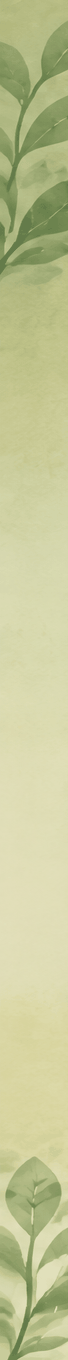
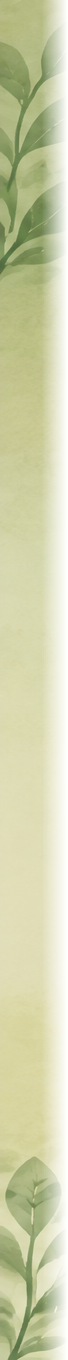
Corrige o retangulo visivel nas folhas, icone e altura do mapa
Relatado: "tem um quadrado que nao esta deixando as folhas aparecerem".

Causa provavel encontrada: as faixas de folhas e o icone eram OPACOS. A
faixa carrega o fundo exato do mockup, que nao e um gradiente linear —
meu LinearGradient de tres paradas diverge dele em algumas alturas, e a
borda da faixa vira um retangulo visivel contra o gradiente.

A correcao nao e acertar o gradiente, e sim tirar a dependencia disso: a
borda interna das faixas agora esmaece para transparente em 26 colunas.
A emenda deixa de existir mesmo onde as cores nao batem.

O icone de folha estava errado de outra forma: eu havia recortado um
pedaco com folhas cortadas e um circulo creme do botao de voltar. Troquei
pelo glifo limpo que o proprio mockup usa ao lado de "Medicos proximos",
agora com fundo transparente.

Mapa: o card no mockup ocupa 10,5% da altura (270 de 2560), ~89pt numa
tela de 844pt. O app usava 220pt, mais que o dobro. Reduzido para 140pt
— mais compacto como pedido, sem ficar pequeno demais para ver os
alfinetes.

Changed region(s): [[0.6471, 0.0, 1.0, 1.0]]

diff --git a/apps/mobile/src/components/DoctorsMap.tsx b/apps/mobile/src/components/DoctorsMap.tsx
@@ -20,12 +20,13 @@ const ESTILO = `https://api.maptiler.com/maps/streets-v2/style.json?key=${MAPTIL
 type Props = {
   doctors: Doctor[];
   onSelectDoctor?: (id: string) => void;
+  /** Medido do mockup: o card do mapa ocupa 10,5% da altura da tela. */
   height?: number;
   /** Ocupa a tela toda, sem cantos arredondados. */
   fullScreen?: boolean;
 };
 
-export function DoctorsMap({ doctors, onSelectDoctor, height = 220, fullScreen }: Props) {
+export function DoctorsMap({ doctors, onSelectDoctor, height = 140, fullScreen }: Props) {
   // So entram no mapa os que foram geocodificados com confianca suficiente.
   const comCoordenada = useMemo(
     () =>
